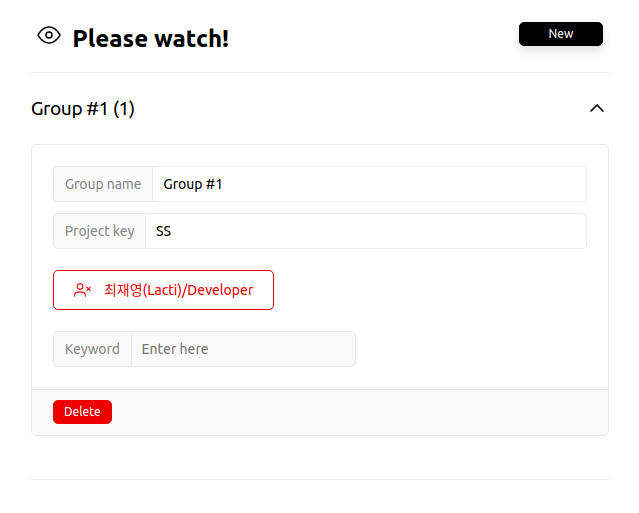
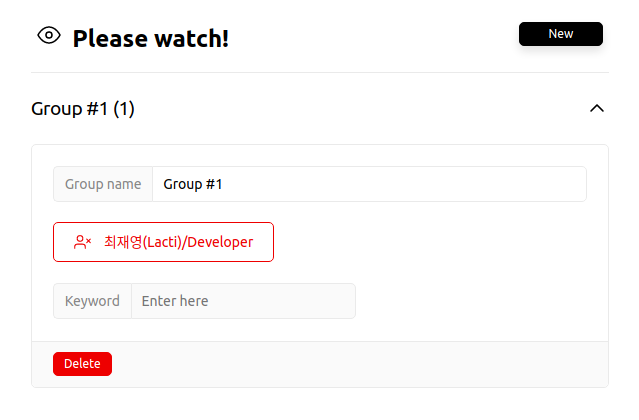
Search member without project key

diff --git a/src/execute.searchMember.ts b/src/execute.searchMember.ts
@@ -4,45 +4,84 @@ import Watcher from "./models/watcher";
 import useExecutionRPC from "chrome-extension-support/lib/rpc/useExecutionRPC";
 import useLogger from "chrome-extension-support/lib/logger/useLogger";
 
-interface AtlassianMemberSearch {
-  accountId: string;
-  accountType: string;
-  active: boolean;
-  avatarUrls: { [size: string]: string };
-  displayName: string;
-  emailAddress: string;
-  locale: string;
-  self: string;
-  timeZone: string;
-}
-
-interface AtlassianError {
-  errorMessages: string[];
-}
-
 const logger = useLogger();
 
 useExecutionRPC().serve<rpcTypes.SearchMember>(
   rpcTypes.searchMember,
-  async (projectKey: string, query: string): Promise<Watcher[]> => {
-    const result = await fetch(
-      `/rest/api/2/user/viewissue/search?projectKey=${projectKey}&query=${encodeURIComponent(
-        query
-      )}&maxResults=20`
-    )
-      .then((r) => r.json())
-      .then((result: AtlassianMemberSearch[] | AtlassianError) => {
-        console.log(result);
-        if ("errorMessages" in result) {
-          throw new Error(result.errorMessages.join("\n"));
-        }
-        return result.map(({ accountId, displayName }) => ({
-          accountId: accountId,
-          userName: displayName,
-        }));
-      });
-
+  async (keyword: string): Promise<Watcher[]> => {
+    const result = await searchByGraphql(keyword, 20);
     logger.debug("Fetch users from search", result);
-    return result;
+
+    return result.data.AccountCentricUserSearch.map((u) => ({
+      accountId: u.id,
+      userName: u.fullName,
+    }));
   }
 );
+
+interface AccountCentricUserSearchResult {
+  data: {
+    AccountCentricUserSearch: {
+      id: string;
+      fullName: string;
+      avatarUrl: string;
+      title: null;
+      nickname: string;
+      email: string;
+      __typename: string;
+    }[];
+  };
+  extensions: {
+    errorNumber: number;
+  };
+}
+
+async function searchByGraphql(keyword: string, count: number) {
+  const cloudId = findCloudId();
+  if (!cloudId) {
+    throw new Error("Cannot find cloud id");
+  }
+
+  const payload = {
+    operationName: "Search",
+    variables: {
+      displayName: keyword,
+      count,
+      cloudId: cloudId,
+    },
+    query: `query Search($cloudId: String!, $displayName: String!, $count: Int) {
+  AccountCentricUserSearch(displayName: $displayName, cloudId: $cloudId, count: $count, filter: {excludeInactive: true, excludeBots: true}) {
+    id
+    fullName
+    avatarUrl
+    title
+    nickname
+    email
+    __typename
+  }
+}
+`,
+  };
+  const result: AccountCentricUserSearchResult = await fetch(
+    `/gateway/api/directory/graphql?q=Search`,
+    {
+      headers: {
+        "content-type": "application/json",
+      },
+      body: JSON.stringify(payload),
+      method: "POST",
+    }
+  ).then((r) => r.json());
+  return result;
+}
+
+function findCloudId(): string | null {
+  const allMetas = document.querySelectorAll("meta");
+  for (let index = 0; index < allMetas.length; ++index) {
+    const meta = allMetas.item(index);
+    if (meta.name === "ajs-cloud-id" || meta.name === "tenant-id") {
+      return meta.content ?? null;
+    }
+  }
+  return null;
+}

diff --git a/src/components/MemberSearchInput.tsx b/src/components/MemberSearchInput.tsx
@@ -12,18 +12,16 @@ const searchMember = useExecutionRPC().stub<rpcTypes.SearchMember>(
 );
 
 export default function MemberSearchInput({
-  projectKey,
   onSearch,
   searchable,
 }: {
-  projectKey: string;
   onSearch: (watcher: Watcher[]) => void;
   searchable: boolean;
 }) {
   const { reset, bindings } = useInput("");
 
-  function search(query: string) {
-    searchMember(projectKey, query)
+  function search(keyword: string) {
+    searchMember(keyword)
       .then((watchers) => {
         onSearch(watchers);
         reset();
@@ -33,9 +31,6 @@ export default function MemberSearchInput({
 
   function onKeyPress(event: React.KeyboardEvent<HTMLInputElement>) {
     const query = (event.target as HTMLInputElement).value;
-    if (!projectKey) {
-      return;
-    }
     if (event.key === "Enter") {
       search(query);
     }

diff --git a/src/components/InputForm.tsx b/src/components/InputForm.tsx
@@ -59,18 +59,6 @@ export default function InputForm({
               })
             }
           />
-          <Spacer y={0.5} />
-          <Input
-            placeholder="Project key"
-            label="Project key"
-            width="100%"
-            value={watcherGroup.projectKey}
-            onBlur={(event) =>
-              updateData({
-                projectKey: event.target.value,
-              })
-            }
-          />
           <Spacer y={1} />
           {watcherGroup.watchers.map((w) => (
             <div key={w.accountId}>
@@ -94,7 +82,6 @@ export default function InputForm({
           ))}
           <Spacer y={0.5} />
           <MemberSearchInput
-            projectKey={watcherGroup.projectKey}
             searchable={memberSearchable}
             onSearch={(ws) =>
               updateData({

diff --git a/src/rpc-types/execute.ts b/src/rpc-types/execute.ts
@@ -1,10 +1,7 @@
 import Watcher from "../models/watcher";
 
 export const searchMember = "searchMember";
-export type SearchMember = (
-  projectKey: string,
-  query: string
-) => Promise<Watcher[]>;
+export type SearchMember = (keyword: string) => Promise<Watcher[]>;
 
 export const addWatchers = "addWatchers";
 export type AddWatchers = (accountIds: string[]) => Promise<boolean>;
@@ -16,4 +13,7 @@ export const alert = "alert";
 export type Alert = (message: string) => Promise<void>;
 
 export const refresh = "refresh";
-export type Refresh = (options: { confirm?: boolean }) => Promise<void>;
+export type Refresh = (
+  message: string,
+  options: { confirm?: boolean }
+) => Promise<void>;

diff --git a/src/execute.refresh.ts b/src/execute.refresh.ts
@@ -4,9 +4,9 @@ import useExecutionRPC from "chrome-extension-support/lib/rpc/useExecutionRPC";
 
 useExecutionRPC().serve<rpcTypes.Refresh>(
   rpcTypes.refresh,
-  async ({ confirm = false }): Promise<void> => {
+  async (message, { confirm = false }): Promise<void> => {
     if (confirm) {
-      if (window.confirm("Do you want to refresh this page?")) {
+      if (window.confirm(message)) {
         window.location.reload();
       }
     } else {

diff --git a/src/background.ts b/src/background.ts
@@ -35,7 +35,12 @@ async function inBackground() {
       : addWatchers;
     try {
       await adder(watcherGroup.watchers.map((w) => w.accountId));
-      await windowRefresh({ confirm: true });
+      await windowRefresh(
+        "After refreshing the page, you can see the changes.\nWould you like to refresh now?",
+        {
+          confirm: true,
+        }
+      );
     } catch (error) {
       errorAlert(error);
     }

diff --git a/src/components/Popup.tsx b/src/components/Popup.tsx
@@ -41,7 +41,6 @@ function App() {
   function onAdd() {
     addWatcherGroup({
       groupName: `Group #${watcherGroups.length + 1}`,
-      projectKey: "",
       watchers: [],
     })
       .then(setWatcherGroups)

diff --git a/src/models/watcherGroup.ts b/src/models/watcherGroup.ts
@@ -2,7 +2,6 @@ import Watcher from "./watcher";
 
 export default interface WatcherGroup {
   id: string;
-  projectKey: string;
   groupName: string;
   watchers: Watcher[];
 }

diff --git a/README.md b/README.md
@@ -2,6 +2,8 @@
 
 Chrome extension to add issue watchers easily.
 
+![Preview](./docs/preview.png)
+
 ## Installation
 
 1. Download latest `please-watch-jira.zip` from [releases](https://github.com/music-flo/please-watch-jira/releases).
@@ -21,12 +23,10 @@ Chrome extension to add issue watchers easily.
    ![Atlassian url](./docs/atlassian-url.png)
    You can add a new group using `New` button.
    ![Use new button](./docs/use-new-button.png)
-2. Input a name and project key. You can find your project key in your atlassian URL.
-   ![Project key from url](./docs/project-key-from-atlassian-url.png)
-3. And then, you can search watchers using `Keyword input`. All things are valid, you can see new members when you press enter key from `Keyword input`. If you want to delete a member, just click it.
+2. And then, you can search watchers using `Keyword input`. All things are valid, you can see new members when you press enter key from `Keyword input`. If you want to delete a member, just click it.
    ![Settings popup](./docs/settings-popup.png)
-4. After finished, click the icon of this extension to close this settings popup.
-5. Open Jira issue or Servicedesk page, add watchers using context menu.
+3. After finished, click the icon of this extension to close this settings popup.
+4. Open Jira issue or Servicedesk page, add watchers using context menu.
    ![Context-menu](./docs/context-menu.png)
 
 ## Update plugins
